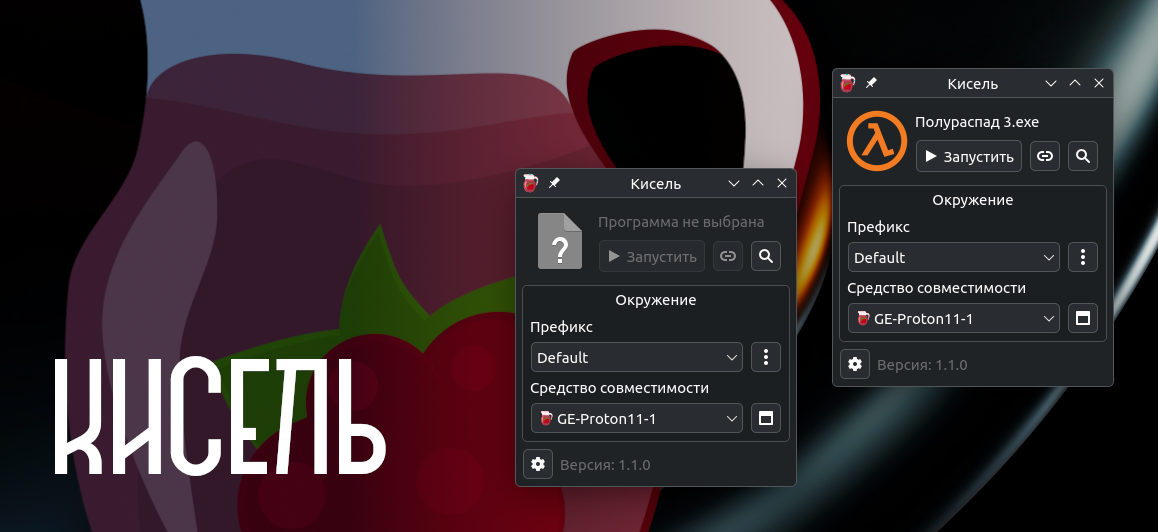
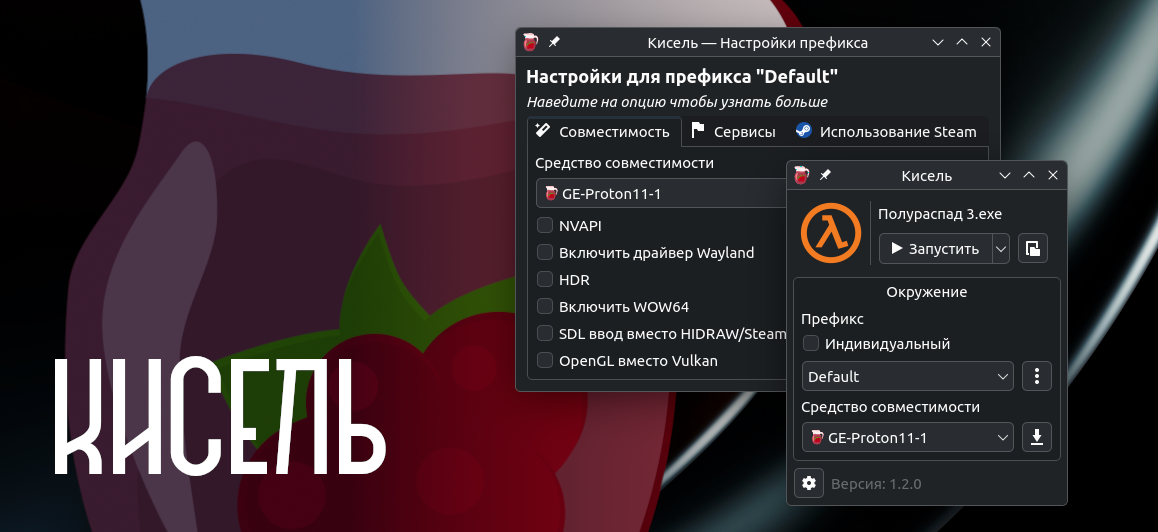
Changes in package assembly, updated screenshots

Changed region(s): [[0.4352, 0.0301, 0.9948, 0.9624]]

diff --git a/src/process_manager.cpp b/src/process_manager.cpp
@@ -40,7 +40,8 @@ void ProcessManager::run(const ExecutableFile& exeFile, RunConfig* runConfig)
     // Save run settings
     prefixSettings->setCtPath(ct->path());
 
-    bool useSteam = APP_SETTINGS->steamExists() && prefixSettings->steamEnabled();
+    const QString& umuPath = APP_SETTINGS->umuPath();
+    const bool useSteam = APP_SETTINGS->steamExists() && prefixSettings->steamEnabled();
 
     static auto y = "1"_L1;
     static auto n = "0"_L1;
@@ -82,7 +83,7 @@ void ProcessManager::run(const ExecutableFile& exeFile, RunConfig* runConfig)
         }
     } else {
         // Launching without of Steam
-        m_process.setProgram(APP_SETTINGS->umuPath());
+        m_process.setProgram(umuPath);
         m_process.setArguments({ exeFile.path() });
 
         env.insert("PROTONPATH"_L1, ct->path());
@@ -93,11 +94,14 @@ void ProcessManager::run(const ExecutableFile& exeFile, RunConfig* runConfig)
     m_process.setProcessEnvironment(env);
     m_process.setWorkingDirectory(exeFile.dirPath());
 
-    qDebug() << "Use Steam:"_L1 << useSteam;
-    qDebug() << "Executable:"_L1 << exeFile.name();
-    qDebug() << "Prefix:"_L1 << prefix->name();
-    qDebug() << "Compatibility tool:"_L1 << ct->name();
-    qDebug() << "Runtime auto-update:"_L1 << APP_SETTINGS->runtimeAutoUpdate();
+    qDebug() << "Use Steam:" << useSteam;
+    if (!useSteam) {
+        qDebug() << "UMU:" << umuPath;
+    }
+    qDebug() << "Executable:" << exeFile.name();
+    qDebug() << "Prefix:" << prefix->name();
+    qDebug() << "Compatibility tool:" << ct->name();
+    qDebug() << "Runtime auto-update:" << APP_SETTINGS->runtimeAutoUpdate();
 
     m_process.start();
 }
@@ -125,12 +129,12 @@ void ProcessManager::runUninstaller(const Prefix* prefix)
 void ProcessManager::runWinetricksUtility(const QString& utilName, const Prefix* prefix)
 {
     if (APP_SETTINGS->winetricksPath().isEmpty()) {
-        showError("\"winetricks\" not found", RunningError::NoWinetricks);
+        showError("\"winetricks\" not found", NoWinetricks);
         return;
     }
 
     if (APP_SETTINGS->umuPath().isEmpty()) {
-        showError("\"umu-run\" not found", RunningError::NoUmu);
+        showError("\"umu-run\" not found", NoUmu);
         return;
     }
 
@@ -154,17 +158,17 @@ void ProcessManager::runWinetricksUtility(const QString& utilName, const Prefix*
 bool ProcessManager::preRunCheck(const ExecutableFile& exeFile, RunConfig* runConfig)
 {
     if (!exeFile.isValid()) {
-        showError("The executable file is not valid", RunningError::InvalidExecutable);
+        showError("The executable file is not valid", InvalidExecutable);
         return false;
     }
 
     if (m_process.state() == QProcess::Running) {
-        showError("The executable file is currently running", RunningError::AlreadyRunning);
+        showError("The executable file is currently running", AlreadyRunning);
         return false;
     }
 
     if (APP_SETTINGS->umuPath().isEmpty()) {
-        showError("\"umu-run\" not found", RunningError::NoUmu);
+        showError("\"umu-run\" not found", NoUmu);
         return false;
     }
 
@@ -176,7 +180,7 @@ bool ProcessManager::preRunCheck(const ExecutableFile& exeFile, RunConfig* runCo
 
     if (!prefix->exists()) {
         if (!prefix->makePath()) {
-            showError("Failed to write prefix", RunningError::PrefixWriteError);
+            showError("Failed to write prefix", PrefixWriteError);
             return false;
         }
     }
@@ -185,7 +189,7 @@ bool ProcessManager::preRunCheck(const ExecutableFile& exeFile, RunConfig* runCo
     if (ct == nullptr || ct->path().isEmpty()) {
         Ct* defaultCt = CT_MODEL->defaultCt();
         if (defaultCt == nullptr || defaultCt->path().isEmpty()) {
-            showError("Cannot run with empty compatibility tool", RunningError::InvalidCt);
+            showError("Cannot run with empty compatibility tool", InvalidCt);
             return false;
         }
         runConfig->setCt(defaultCt);
@@ -232,22 +236,22 @@ void ProcessManager::onProcessError(QProcess::ProcessError error)
     QString errorText = m_process.errorString();
     switch (error) {
     case QProcess::FailedToStart:
-        showError(errorText, RunningError::FailedToStart);
+        showError(errorText, FailedToStart);
         break;
     case QProcess::Crashed:
-        showError(errorText, RunningError::Crashed);
+        showError(errorText, Crashed);
         break;
     case QProcess::Timedout:
-        showError(errorText, RunningError::Timedout);
+        showError(errorText, Timedout);
         break;
     case QProcess::ReadError:
-        showError(errorText, RunningError::ReadError);
+        showError(errorText, ReadError);
         break;
     case QProcess::WriteError:
-        showError(errorText, RunningError::WriteError);
+        showError(errorText, WriteError);
         break;
     default:
-        showError(errorText, RunningError::UnknownError);
+        showError(errorText, UnknownError);
         break;
     }
 }

diff --git a/src/app_settings.cpp b/src/app_settings.cpp
@@ -109,6 +109,12 @@ const QString& AppSettings::winetricksPath() {
 }
 
 const QString& AppSettings::umuPath() {
-    static QString umuPath = QStandardPaths::findExecutable("umu-run"_L1);
-    return umuPath;
+    static QString builtinUmuPath = "/usr/libexec/kisel/umu-run"_L1;
+    static bool builtinUmuExists = QFileInfo::exists(builtinUmuPath);
+    if (builtinUmuExists) {
+        return builtinUmuPath;
+    }
+
+    static QString systemUmuPath = QStandardPaths::findExecutable("umu-run"_L1);
+    return systemUmuPath;
 }

diff --git a/README.md b/README.md
@@ -1,10 +1,14 @@
-[На русском](docs/README_RU.md)
-
 # Kisel
 
 Efficient launch of Windows programs
 
 ![screenshot](resources/screenshot.png)
+
+---
+
+Translations: **[Русский](docs/README_RU.md)**
+
+---
 
 ## Highlights
 - It can run games without Steam using [umu-launcher](https://github.com/Open-Wine-Components/umu-launcher), and with it
@@ -15,21 +19,21 @@ Efficient launch of Windows programs
 - Installing additional prefix dlls
 - OnlineFix Support (Disabled by default)
 - Support for downloading compatibility tools:
-    - Proton-GE (Default)
-    - Proton-CachyOS
+    - [Proton-GE](https://github.com/GloriousEggroll/proton-ge-custom) (Default)
+    - [Proton-CachyOS](https://github.com/CachyOS/proton-cachyos)
 - Configure the following parameters:
     - Runtime auto-update
     - Using Steam or umu-launcher
     - MangoHud
     - OBS Vulkan Game Capture
     - Xalia
+    - NVAPI
     - Wayland driver
+    - HDR
+    - SDL Input
     - Steam Environment
     - WOW64
     - OnlineFix
-- Available translations:
-    - English
-    - Русский
 
 ## Dependencies
 - **qt6-base**: Graphical interface

diff --git a/docs/README_RU.md b/docs/README_RU.md
@@ -13,21 +13,21 @@
 - Установка дополнительных DLL-файлов в префиксы
 - Поддержка OnlineFix (по умолчанию отключено)
 - Поддержка загрузки инструментов совместимости:
-    - Proton-GE (по умолчанию)
-    - Proton-CachyOS
+    - [Proton-GE]([Proton-GE](https://github.com/GloriousEggroll/proton-ge-custom)) (по умолчанию)
+    - [Proton-CachyOS]([Proton-CachyOS](https://github.com/CachyOS/proton-cachyos))
 - Настройка следующих параметров:
     - Автоматическое обновление среды выполнения
     - Использование Steam или umu-launcher
     - MangoHud
     - OBS Vulkan Game Capture
     - Xalia
+    - NVAPI
     - Драйвер Wayland
+    - HDR
+    - SDL Input
     - Использование среды Steam
     - WOW64
     - OnlineFix
-- Доступные переводы:
-    - English
-    - Русский
 
 ## Зависимости
 - **qt6-base**: Графический интерфейс
